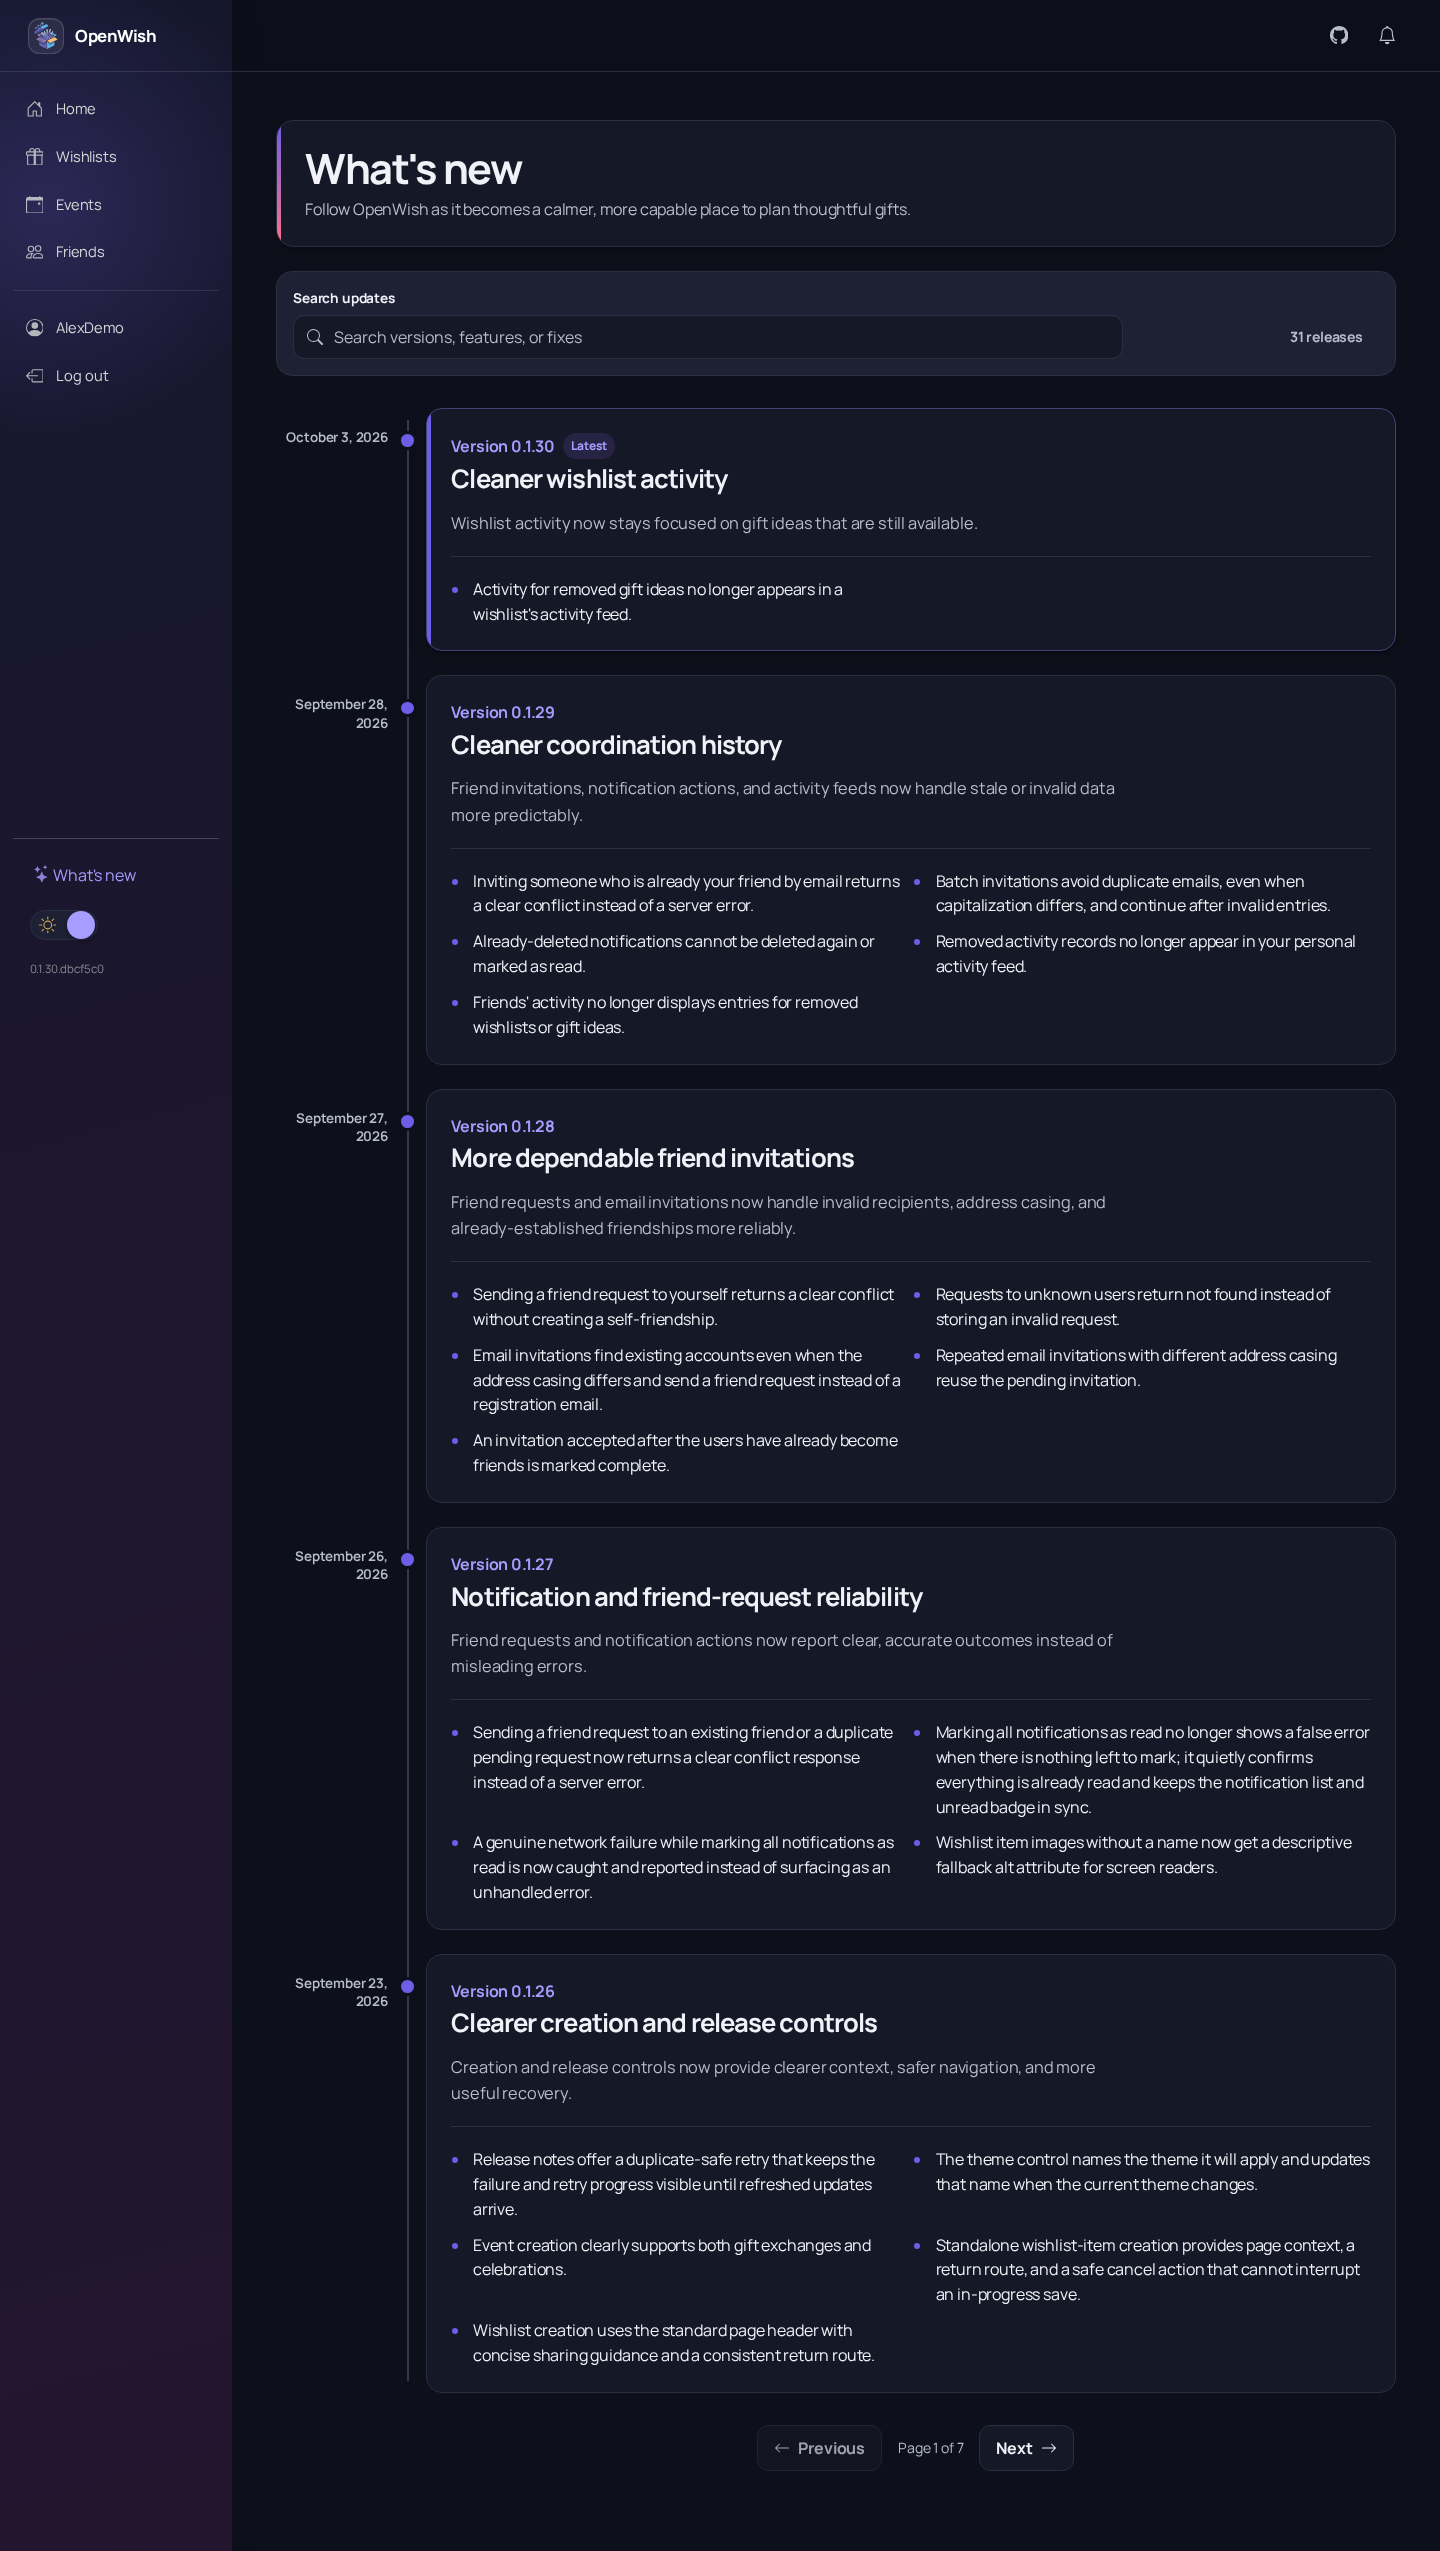
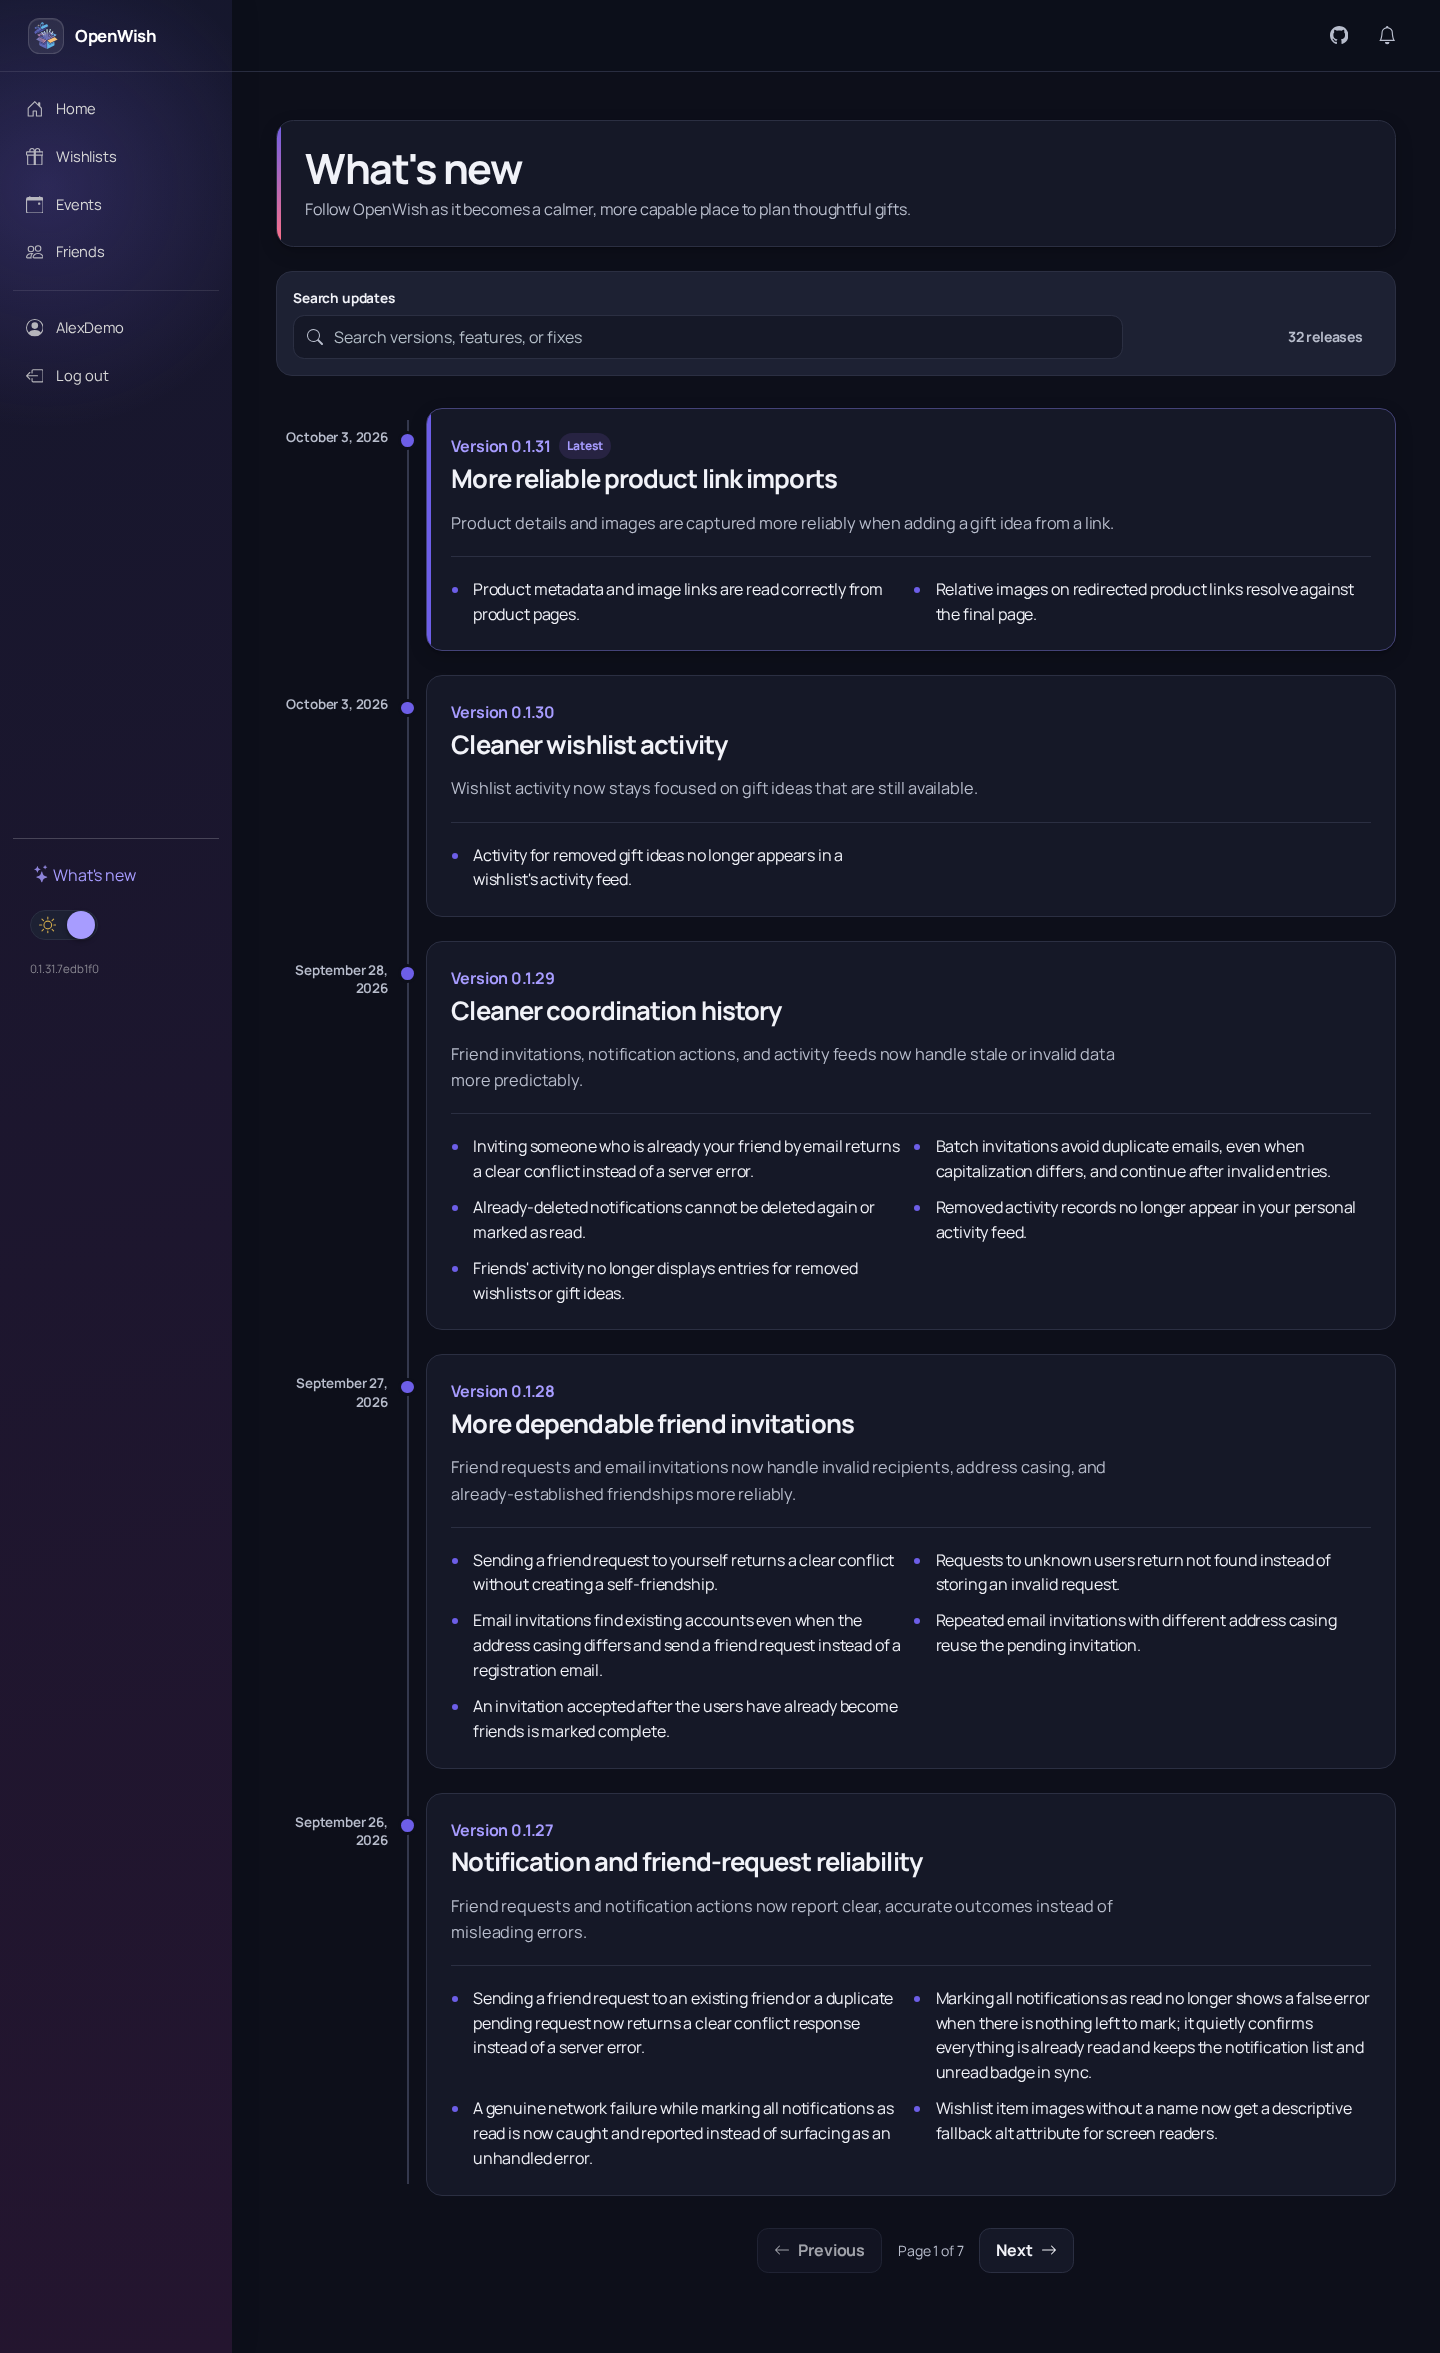
Resolve product metadata after redirects

diff --git a/src/OpenWish.Application.Tests/Services/ProductServiceRedirectTests.cs b/src/OpenWish.Application.Tests/Services/ProductServiceRedirectTests.cs
@@ -1,0 +1,72 @@
+using System.Net;
+using Microsoft.Extensions.Logging.Abstractions;
+using OpenWish.Application.Services;
+using Xunit;
+
+namespace OpenWish.Application.Tests.Services;
+
+public class ProductServiceRedirectTests
+{
+    [Theory]
+    [InlineData("images/gift.jpg", false, "https://8.8.8.8/products/images/gift.jpg")]
+    [InlineData("/images/gift.jpg", false, "https://8.8.8.8/images/gift.jpg")]
+    [InlineData("images/gift.jpg", true, "https://8.8.8.8/products/images/gift.jpg")]
+    public async Task TryScrapeProductFromUrl_ResolvesRelativeImageAgainstRedirectDestination(
+        string imagePath, bool useOpenGraph, string expectedImageUrl)
+    {
+        const string originalUrl = "https://1.1.1.1/old/gift";
+        const string destinationUrl = "https://8.8.8.8/products/gift";
+        var handler = new RedirectHandler(originalUrl, destinationUrl, imagePath, useOpenGraph);
+        using var client = new HttpClient(handler);
+        var service = new ProductService(new TestHttpClientFactory(client), NullLogger<ProductService>.Instance);
+
+        var product = await service.TryScrapeProductFromUrl(originalUrl);
+
+        Assert.NotNull(product);
+        Assert.Equal("Gift", product.Name);
+        if (useOpenGraph)
+        {
+            Assert.Equal("A thoughtful gift", product.Description);
+            Assert.Equal(12m, product.Price);
+        }
+        Assert.Equal(expectedImageUrl, product.ImageUrl);
+        Assert.Equal(originalUrl, product.Url);
+        Assert.Equal(2, handler.RequestCount);
+    }
+
+    private sealed class TestHttpClientFactory(HttpClient client) : IHttpClientFactory
+    {
+        public HttpClient CreateClient(string name) => client;
+    }
+
+    private sealed class RedirectHandler(
+        string originalUrl, string destinationUrl, string imagePath, bool useOpenGraph) : HttpMessageHandler
+    {
+        public int RequestCount { get; private set; }
+
+        protected override Task<HttpResponseMessage> SendAsync(HttpRequestMessage request, CancellationToken cancellationToken)
+        {
+            RequestCount++;
+            if (request.RequestUri?.AbsoluteUri == originalUrl)
+            {
+                return Task.FromResult(new HttpResponseMessage(HttpStatusCode.Redirect)
+                {
+                    Headers = { Location = new Uri(destinationUrl) }
+                });
+            }
+
+            Assert.Equal(destinationUrl, request.RequestUri?.AbsoluteUri);
+            var imageMarkup = useOpenGraph
+                ? $"<meta property='og:title' content='Gift'>" +
+                  "<meta property='og:description' content='A thoughtful gift'>" +
+                  "<meta property='product:price:amount' content='12'>" +
+                  $"<meta property='og:image' content='{imagePath}'>"
+                : $"<img id='main-image' src='{imagePath}'>";
+            return Task.FromResult(new HttpResponseMessage(HttpStatusCode.OK)
+            {
+                Content = new StringContent(
+                    $"{(useOpenGraph ? "" : "<h1 class='product-name'>Gift</h1>")}{imageMarkup}")
+            });
+        }
+    }
+}

diff --git a/src/OpenWish.Application/Services/ProductService.cs b/src/OpenWish.Application/Services/ProductService.cs
@@ -121,7 +121,8 @@ public partial class ProductService : IProductService
                 return null;
             }
 
-            using var response = await GetFollowingSafeRedirectsAsync(uri);
+            var (pageResponse, pageUri) = await GetFollowingSafeRedirectsAsync(uri);
+            using var response = pageResponse;
 
             await response.Content.LoadIntoBufferAsync(MaxResponseBytes);
             var html = await response.Content.ReadAsStringAsync();
@@ -135,7 +136,7 @@ public partial class ProductService : IProductService
 
             if (!string.IsNullOrEmpty(imageUrl) && !imageUrl.StartsWith("http"))
             {
-                imageUrl = new Uri(uri, imageUrl).AbsoluteUri;
+                imageUrl = new Uri(pageUri, imageUrl).AbsoluteUri;
             }
 
             if (!string.IsNullOrEmpty(imageUrl) &&
@@ -176,7 +177,7 @@ public partial class ProductService : IProductService
         }
     }
 
-    private async Task<HttpResponseMessage> GetFollowingSafeRedirectsAsync(Uri initialUri)
+    private async Task<(HttpResponseMessage Response, Uri PageUri)> GetFollowingSafeRedirectsAsync(Uri initialUri)
     {
         var currentUri = initialUri;
         for (var redirect = 0; redirect <= MaxRedirects; redirect++)
@@ -190,7 +191,7 @@ public partial class ProductService : IProductService
             if (!IsRedirect(response.StatusCode))
             {
                 response.EnsureSuccessStatusCode();
-                return response;
+                return (response, currentUri);
             }
 
             if (redirect == MaxRedirects)
@@ -226,7 +227,12 @@ public partial class ProductService : IProductService
             var node = doc.DocumentNode.SelectSingleNode(selector);
             if (node != null)
             {
-                return node.Name == "meta" ? node.GetAttributeValue("content", null) : node.InnerText.Trim();
+                return node.Name switch
+                {
+                    "meta" => node.GetAttributeValue("content", null),
+                    "img" => node.GetAttributeValue("src", null),
+                    _ => node.InnerText.Trim()
+                };
             }
         }
         return null;

diff --git a/src/OpenWish.Application/Models/ProductSelectors.cs b/src/OpenWish.Application/Models/ProductSelectors.cs
@@ -4,7 +4,7 @@ public class ProductSelectors
 {
     public static readonly List<string> TitleSelectors = new()
     {
-        "//meta[@property='og:title']/@content",
+        "//meta[@property='og:title']",
         "//h1[@class='product-name']",
         "//h1[@itemprop='name']",
         "//h1[contains(@class, 'pdp-title')]",
@@ -13,7 +13,7 @@ public class ProductSelectors
 
     public static readonly List<string> DescriptionSelectors = new()
     {
-        "//meta[@property='og:description']/@content",
+        "//meta[@property='og:description']",
         "//div[@class='product-description']",
         "//div[@itemprop='description']",
         "//div[contains(@class, 'pdp-description')]"
@@ -21,7 +21,7 @@ public class ProductSelectors
 
     public static readonly List<string> PriceSelectors = new()
     {
-        "//meta[@property='product:price:amount']/@content",
+        "//meta[@property='product:price:amount']",
         "//span[@class='price-value']",
         "//span[@itemprop='price']",
         "//div[contains(@class, 'product-price')]//span[contains(@class, 'price')]"
@@ -29,9 +29,9 @@ public class ProductSelectors
 
     public static readonly List<string> ImageSelectors = new()
     {
-        "//meta[@property='og:image']/@content",
-        "//img[@id='main-image']/@src",
-        "//img[@itemprop='image']/@src",
-        "//img[contains(@class, 'product-image')]/@src"
+        "//meta[@property='og:image']",
+        "//img[@id='main-image']",
+        "//img[@itemprop='image']",
+        "//img[contains(@class, 'product-image')]"
     };
 }

diff --git a/.docs/releases/2026-10-03-0.1.31-product-link-imports.md b/.docs/releases/2026-10-03-0.1.31-product-link-imports.md
@@ -1,0 +1,11 @@
+# More reliable product link imports - October 3, 2026
+
+Adding a gift idea from a product link now picks up page metadata and image
+links more reliably. If a shop redirects the link, relative image paths use
+the final product page address, so the suggested image points to the right
+place. Unsafe image addresses remain excluded.
+
+Focused scraper tests cover redirected product pages with image tags and
+Open Graph metadata. The isolated browser journey covers authenticated product
+import safeguards, populated wishlist views, clean browser and server logs,
+and desktop and mobile screenshots.

diff --git a/CHANGELOG.md b/CHANGELOG.md
@@ -2,6 +2,12 @@
 
 All notable user-facing changes to OpenWish are documented here.
 
+## [0.1.31] - 2026-10-03
+
+### Improved
+
+- Product link imports now read page metadata and image links reliably, including relative images on redirected product pages.
+
 ## [0.1.30] - 2026-10-03
 
 ### Improved
